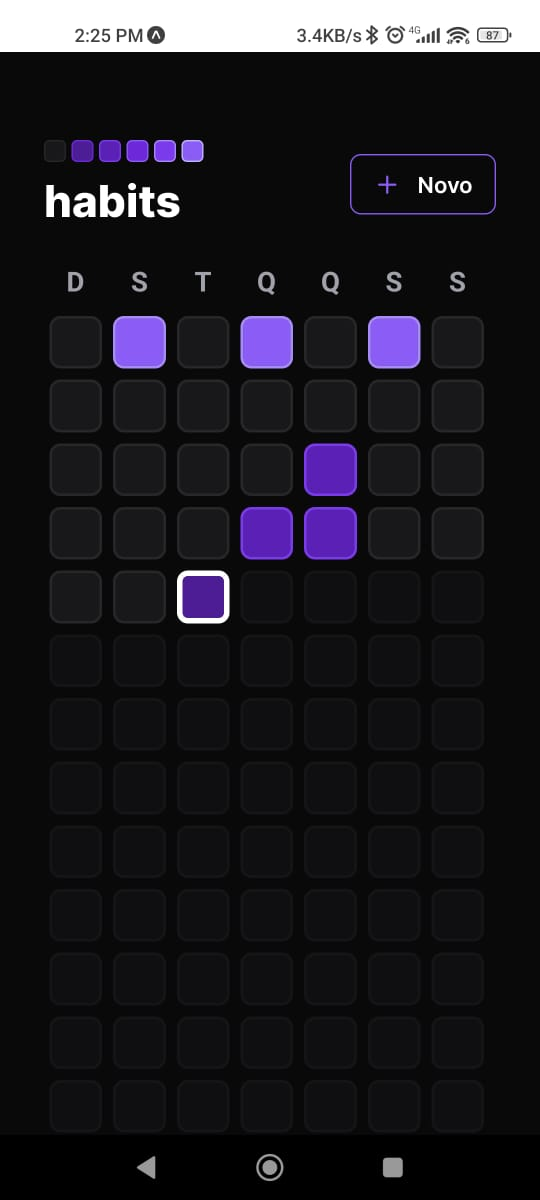
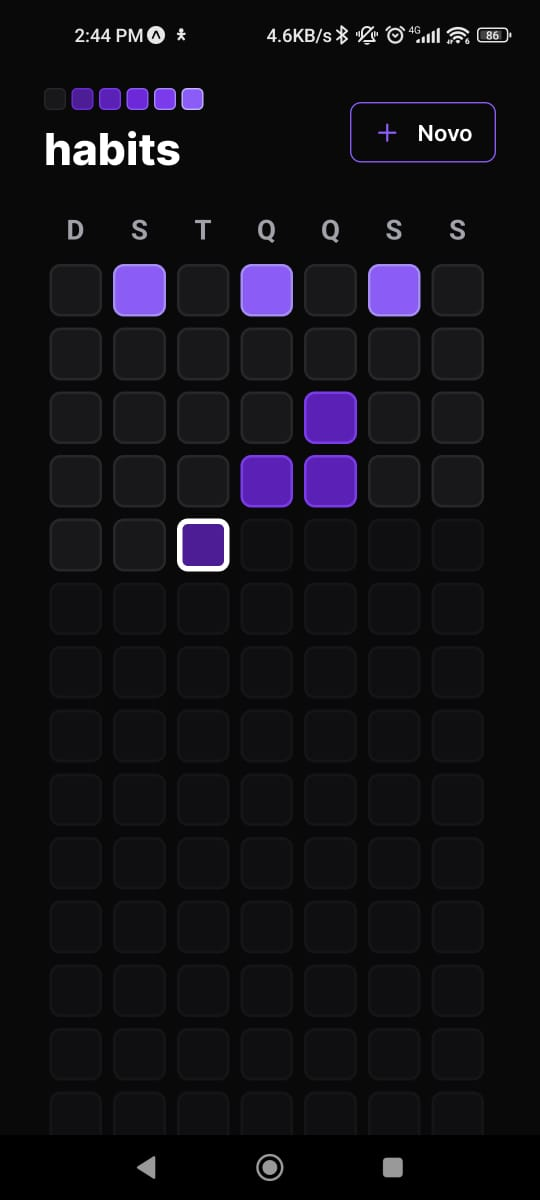
Corrige StatusBar

diff --git a/App.tsx b/App.tsx
@@ -56,7 +56,7 @@ export default function App() {
       <StatusBar
         barStyle={"light-content"}
         backgroundColor="transparent"
-        // translucent
+        translucent
       />
     </>
   );
